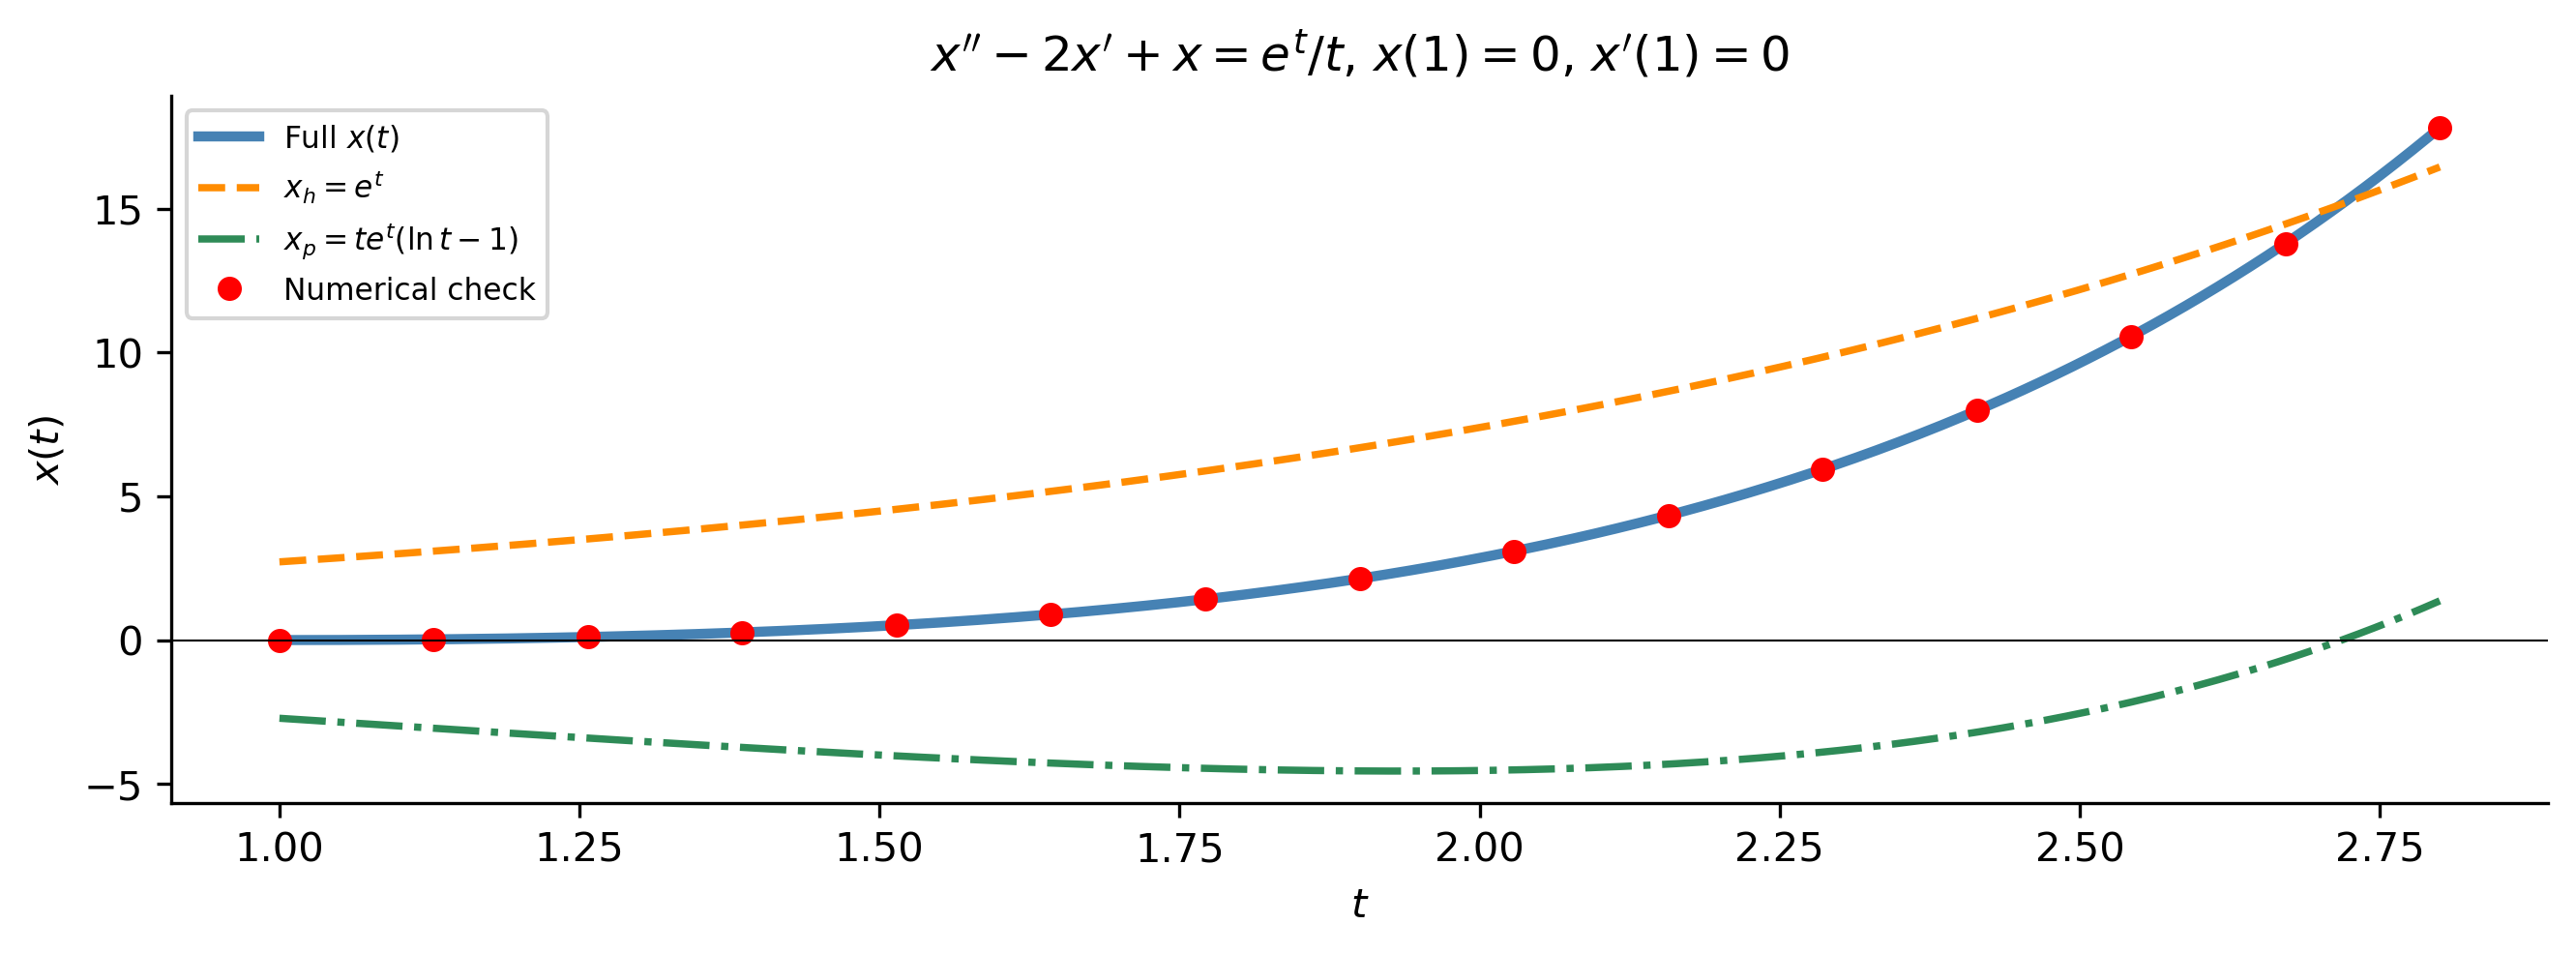
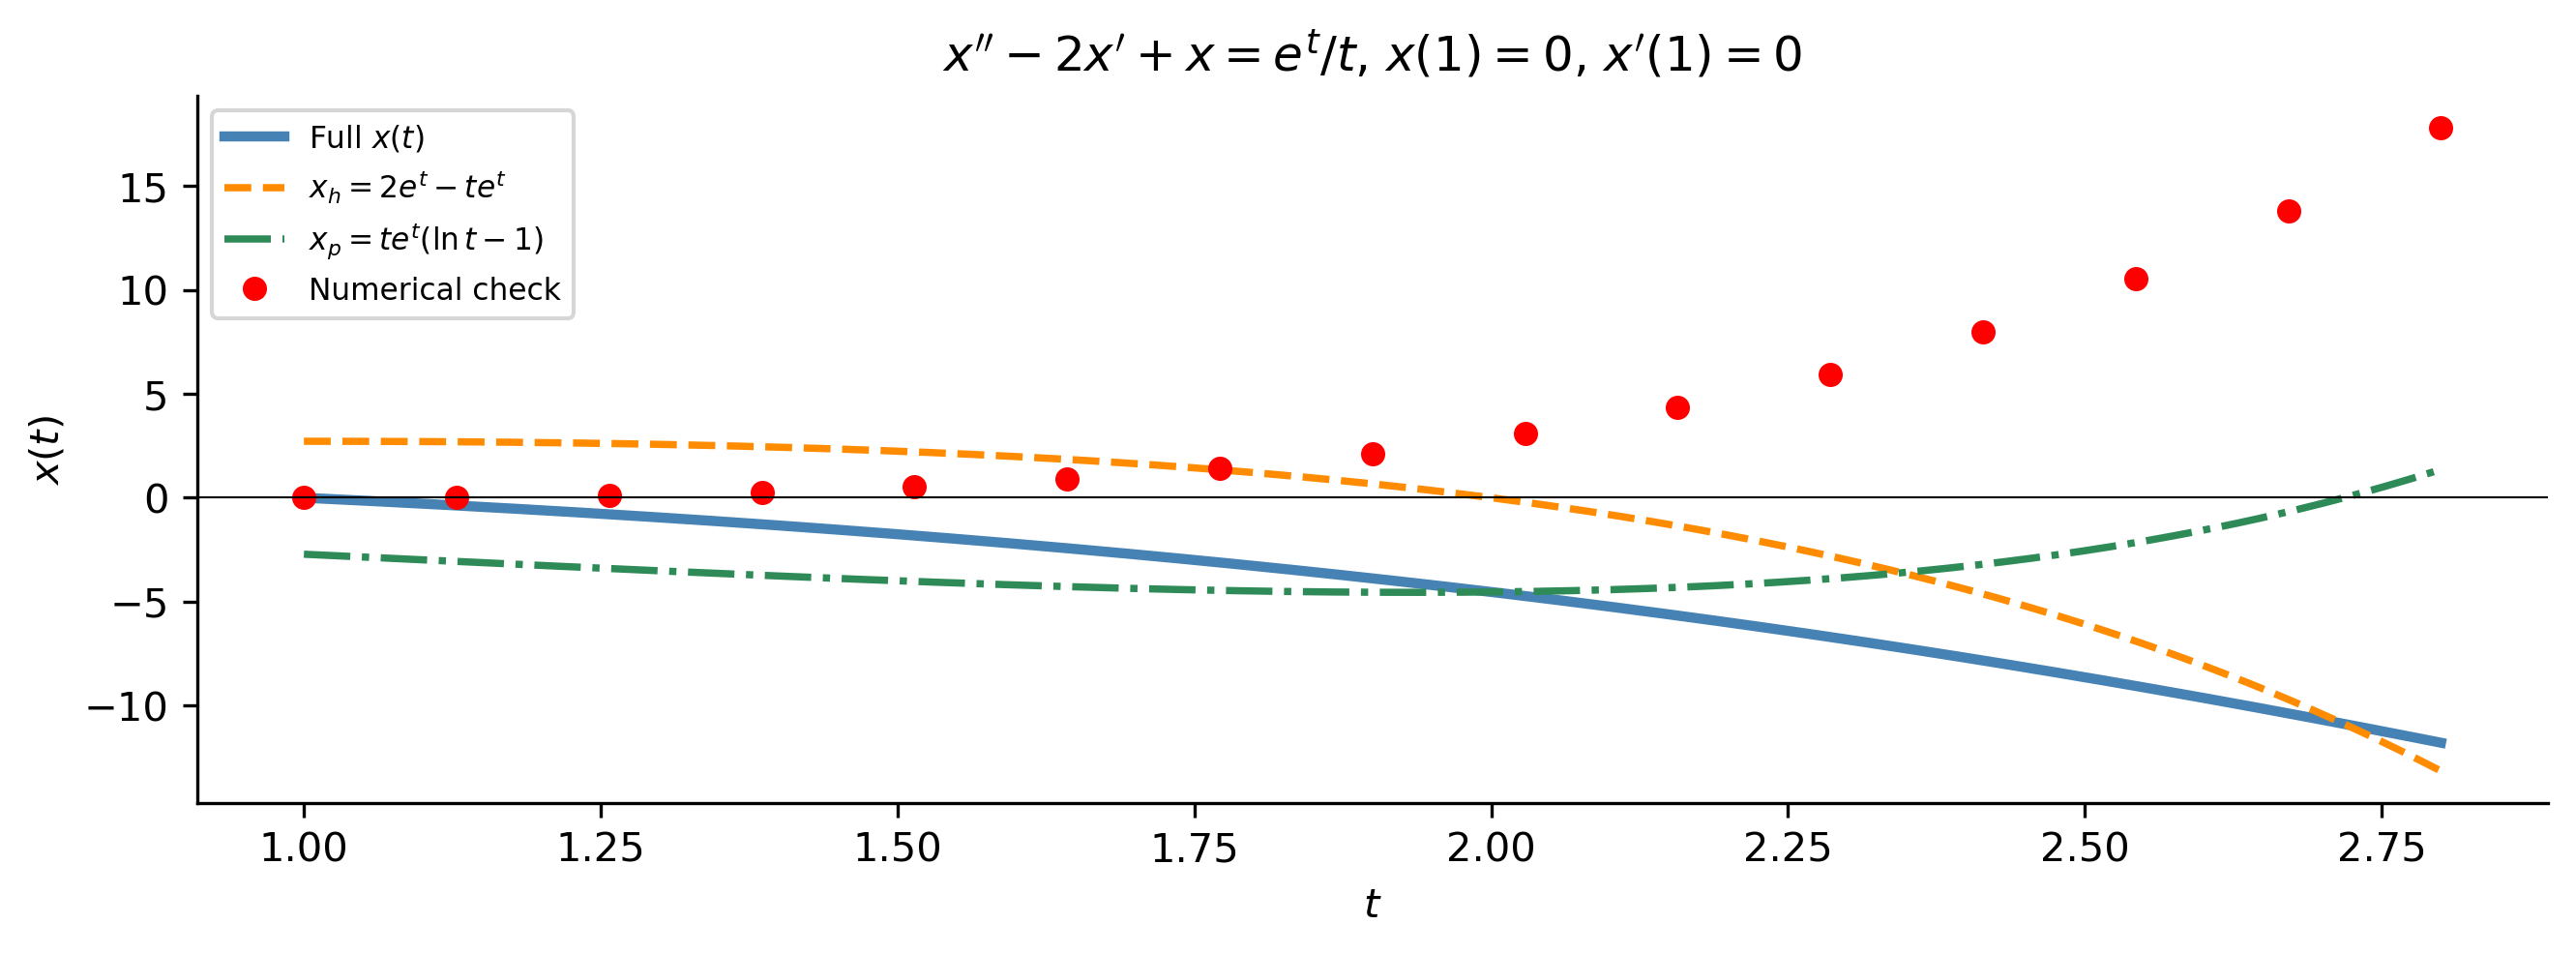
update notes 5

diff --git a/_site/notes_05.html b/_site/notes_05.html
@@ -508,7 +508,7 @@ window.Quarto = {
 </header>
 
 
-<div id="34da382f" class="cell" data-execution_count="1">
+<div id="01619ac7" class="cell" data-execution_count="1">
 <details class="code-fold">
 <summary>Show the code</summary>
 <div class="code-copy-outer-scaffold"><div class="sourceCode cell-code" id="cb1"><pre class="sourceCode python code-with-copy"><code class="sourceCode python"><span id="cb1-1"><a href="#cb1-1" aria-hidden="true" tabindex="-1"></a><span class="im">import</span> numpy <span class="im">as</span> np</span>
@@ -561,6 +561,49 @@ x'' + P(t)\,x' + Q(t)\,x = g(t), \tag{SF}
 <h3 class="anchored" data-anchor-id="when-undetermined-coefficients-fails">When Undetermined Coefficients Fails</h3>
 <p>The method of undetermined coefficients requires the right-hand side <span class="math inline">\(g(t)\)</span> to be a polynomial, exponential, sine, cosine, or product thereof. For variable-coefficient equations the homogeneous solution <span class="math inline">\(x_h\)</span> no longer consists of these simple forms, so there is no longer a predictable guess for <span class="math inline">\(x_p\)</span>. Moreover, even for constant-coefficient equations, forcing functions such as <span class="math inline">\(\sec t\)</span>, <span class="math inline">\(\tan t\)</span>, <span class="math inline">\(\ln t\)</span>, <span class="math inline">\(1/t\)</span>, or <span class="math inline">\(e^t/t\)</span> lie <strong>outside</strong> the undetermined-coefficients table and cannot be handled by guessing.</p>
 <p><strong>Variation of parameters</strong> resolves both issues.</p>
+<div class="callout callout-style-default callout-important callout-titled">
+<div class="callout-header d-flex align-content-center">
+<div class="callout-icon-container">
+<i class="callout-icon"></i>
+</div>
+<div class="callout-title-container flex-fill">
+<span class="screen-reader-only">Important</span>When Undetermined Coefficients Fails
+</div>
+</div>
+<div class="callout-body-container callout-body">
+<table class="caption-top table">
+<colgroup>
+<col style="width: 50%">
+<col style="width: 50%">
+</colgroup>
+<thead>
+<tr class="header">
+<th>Forcing <span class="math inline">\(g(t)\)</span></th>
+<th>Why UC fails</th>
+</tr>
+</thead>
+<tbody>
+<tr class="odd">
+<td><span class="math inline">\(\sec t\)</span>, <span class="math inline">\(\tan t\)</span>, <span class="math inline">\(\csc t\)</span></td>
+<td>Not in the guess table; derivatives generate new function families</td>
+</tr>
+<tr class="even">
+<td><span class="math inline">\(\ln t\)</span>, <span class="math inline">\(\sqrt{t}\)</span>, <span class="math inline">\(1/t\)</span></td>
+<td>Not closed under differentiation — infinitely many new terms appear</td>
+</tr>
+<tr class="odd">
+<td><span class="math inline">\(e^t/t\)</span></td>
+<td>Product of an exponential and <span class="math inline">\(1/t\)</span>; <span class="math inline">\(1/t\)</span> grows under differentiation</td>
+</tr>
+<tr class="even">
+<td>Variable coefficients</td>
+<td>No exponential <span class="math inline">\(x_h\)</span> to compare against; guessing is not predictable</td>
+</tr>
+</tbody>
+</table>
+</div>
+</div>
+<p><strong>Variation of parameters</strong> handles all of these by working directly with the homogeneous solutions, whatever form they take.</p>
 <hr>
 </section>
 </section>
@@ -613,7 +656,7 @@ u_1 = -\int\frac{x_2\,g}{W}\,dt, \qquad u_2 = \int\frac{x_1\,g}{W}\,dt.
 <h3 class="anchored" data-anchor-id="abels-identity">Abel’s Identity</h3>
 <p>The Wronskian of any two solutions of (H) satisfies <strong><a href="https://en.wikipedia.org/wiki/Abel%27s_identity">Abel’s identity</a></strong>: <span class="math display">\[
 W(t) = W(t_0)\,\exp\!\left(-\int_{t_0}^t P(s)\,ds\right).
-\]</span> For constant-coefficient equations (<span class="math inline">\(P\)</span> constant) this gives <span class="math inline">\(W(t) = W(t_0)\,e^{-P(t-t_0)}\)</span>, and in particular <span class="math inline">\(W \neq 0\)</span> everywhere if it is non-zero at one point.</p>
+\]</span> For constant-coefficient equations (<span class="math inline">\(P\)</span> constant) this gives <span class="math inline">\(W(t) = W(t_0)\,e^{-P(t-t_0)}\)</span>, and in particular <span class="math inline">\(W \neq 0\)</span> everywhere if it is non-zero at one point. More generally, since the exponential factor is always nonzero, Abel’s identity shows that <strong><span class="math inline">\(W\)</span> either vanishes identically on <span class="math inline">\(I\)</span> or is nonzero everywhere on <span class="math inline">\(I\)</span></strong> — in particular, if <span class="math inline">\(W(t_0)\neq 0\)</span> for any single <span class="math inline">\(t_0\in I\)</span>, then <span class="math inline">\(W(t)\neq 0\)</span> for all <span class="math inline">\(t\in I\)</span>. This justifies checking the Wronskian at just one convenient point.</p>
 <hr>
 </section>
 </section>
@@ -664,7 +707,7 @@ Note
 </div>
 </div>
 <div class="callout-body-container callout-body">
-<p>The solution exists only on intervals where <span class="math inline">\(\sec t\)</span> is defined: <span class="math inline">\(t\neq \pi/2 + n\pi\)</span>. The particular solution <span class="math inline">\(x_p = \cos t\ln|\cos t| + t\sin t\)</span> grows <strong>linearly</strong> in amplitude because of the <span class="math inline">\(t\sin t\)</span> term — behavior that undetermined coefficients never produces.</p>
+<p>The solution exists on the interval <span class="math inline">\((-\pi/2,\,\pi/2)\)</span> containing <span class="math inline">\(t=0\)</span>, and more generally on any open interval between consecutive singularities of <span class="math inline">\(\sec t\)</span> (i.e., between adjacent odd multiples of <span class="math inline">\(\pi/2\)</span>). The <span class="math inline">\(t\sin t\)</span> term in <span class="math inline">\(x_p\)</span> causes the amplitude to grow <strong>linearly</strong> — behavior analogous to resonance, even though <span class="math inline">\(\omega = 1\)</span> and the forcing <span class="math inline">\(\sec t\)</span> is not a pure sinusoid. Undetermined coefficients never produces this kind of growth.</p>
 </div>
 </div>
 <div id="cell-fig-ex1" class="cell" data-execution_count="2">
@@ -733,10 +776,10 @@ Note
 </div>
 </div>
 <div class="callout-body-container callout-body">
-<p>Note that <span class="math inline">\(te^t(\ln t - 1) = te^t\ln t - te^t\)</span>, and the <span class="math inline">\(-te^t\)</span> part could be absorbed into the <span class="math inline">\(C_2 te^t\)</span> term by redefining <span class="math inline">\(C_2\)</span>. In practice we keep the particular solution as found and let the constants adjust when ICs are applied.</p>
+<p>Note that <span class="math inline">\(te^t(\ln t - 1) = te^t\ln t - te^t\)</span>, and the <span class="math inline">\(-te^t\)</span> part could be absorbed into the <span class="math inline">\(C_2 te^t\)</span> term by redefining <span class="math inline">\(C_2\)</span>. This is valid because <strong>particular solutions are not unique</strong> — any particular solution differs from any other by a solution of the homogeneous equation, so absorbing constant-multiple terms from <span class="math inline">\(x_p\)</span> into <span class="math inline">\(x_h\)</span> yields the same general solution. In practice we keep the particular solution as found and let the constants adjust when ICs are applied.</p>
 </div>
 </div>
-<div id="18df801d" class="cell" data-execution_count="3">
+<div id="5efde885" class="cell" data-execution_count="3">
 <details class="code-fold">
 <summary>Show the code</summary>
 <div class="code-copy-outer-scaffold"><div class="sourceCode cell-code" id="cb3"><pre class="sourceCode python code-with-copy"><code class="sourceCode python"><span id="cb3-1"><a href="#cb3-1" aria-hidden="true" tabindex="-1"></a><span class="co"># SymPy verification</span></span>
@@ -761,26 +804,27 @@ Note
 <div class="code-copy-outer-scaffold"><div class="sourceCode cell-code" id="cb5"><pre class="sourceCode python code-with-copy"><code class="sourceCode python"><span id="cb5-1"><a href="#cb5-1" aria-hidden="true" tabindex="-1"></a>t_plot2 <span class="op">=</span> np.linspace(<span class="fl">1.0</span>, <span class="fl">2.8</span>, <span class="dv">400</span>)</span>
 <span id="cb5-2"><a href="#cb5-2" aria-hidden="true" tabindex="-1"></a></span>
 <span id="cb5-3"><a href="#cb5-3" aria-hidden="true" tabindex="-1"></a><span class="co"># IVP: x(1)=0, x'(1)=0</span></span>
-<span id="cb5-4"><a href="#cb5-4" aria-hidden="true" tabindex="-1"></a><span class="co"># x = e^t + t*e^t*(ln(t)-1)  [verified: C1=1, C2=0]</span></span>
-<span id="cb5-5"><a href="#cb5-5" aria-hidden="true" tabindex="-1"></a>xp2  <span class="op">=</span> t_plot2 <span class="op">*</span> np.exp(t_plot2) <span class="op">*</span> (np.log(t_plot2) <span class="op">-</span> <span class="dv">1</span>)</span>
-<span id="cb5-6"><a href="#cb5-6" aria-hidden="true" tabindex="-1"></a>xh2  <span class="op">=</span> np.exp(t_plot2)   <span class="co"># C1=1, C2=0</span></span>
-<span id="cb5-7"><a href="#cb5-7" aria-hidden="true" tabindex="-1"></a>x2_full <span class="op">=</span> xh2 <span class="op">+</span> xp2</span>
-<span id="cb5-8"><a href="#cb5-8" aria-hidden="true" tabindex="-1"></a></span>
-<span id="cb5-9"><a href="#cb5-9" aria-hidden="true" tabindex="-1"></a>fig, ax <span class="op">=</span> plt.subplots(figsize<span class="op">=</span>(<span class="dv">8</span>, <span class="fl">4.5</span>))</span>
-<span id="cb5-10"><a href="#cb5-10" aria-hidden="true" tabindex="-1"></a>ax.plot(t_plot2, x2_full, color<span class="op">=</span><span class="st">'steelblue'</span>, lw<span class="op">=</span><span class="fl">2.5</span>, label<span class="op">=</span><span class="st">'Full solution $x(t)$'</span>)</span>
-<span id="cb5-11"><a href="#cb5-11" aria-hidden="true" tabindex="-1"></a>ax.plot(t_plot2, xh2,     color<span class="op">=</span><span class="st">'darkorange'</span>, lw<span class="op">=</span><span class="fl">1.8</span>, ls<span class="op">=</span><span class="st">'--'</span>, label<span class="op">=</span><span class="st">'$x_h = e^t$ (with $C_1=1$, $C_2=0$)'</span>)</span>
-<span id="cb5-12"><a href="#cb5-12" aria-hidden="true" tabindex="-1"></a>ax.plot(t_plot2, xp2,     color<span class="op">=</span><span class="st">'seagreen'</span>,   lw<span class="op">=</span><span class="fl">1.8</span>, ls<span class="op">=</span><span class="st">'-.'</span>, label<span class="op">=</span><span class="st">'$x_p = te^t(</span><span class="ch">\\</span><span class="st">ln t-1)$'</span>)</span>
-<span id="cb5-13"><a href="#cb5-13" aria-hidden="true" tabindex="-1"></a></span>
-<span id="cb5-14"><a href="#cb5-14" aria-hidden="true" tabindex="-1"></a><span class="kw">def</span> ode2(t, y): <span class="cf">return</span> [y[<span class="dv">1</span>], <span class="dv">2</span><span class="op">*</span>y[<span class="dv">1</span>] <span class="op">-</span> y[<span class="dv">0</span>] <span class="op">+</span> np.exp(t)<span class="op">/</span>t]</span>
-<span id="cb5-15"><a href="#cb5-15" aria-hidden="true" tabindex="-1"></a>sol2n <span class="op">=</span> solve_ivp(ode2, (<span class="fl">1.0</span>, <span class="fl">2.8</span>), [<span class="fl">0.0</span>, <span class="fl">0.0</span>], dense_output<span class="op">=</span><span class="va">True</span>, max_step<span class="op">=</span><span class="fl">0.005</span>)</span>
-<span id="cb5-16"><a href="#cb5-16" aria-hidden="true" tabindex="-1"></a>t_dots2 <span class="op">=</span> np.linspace(<span class="fl">1.0</span>, <span class="fl">2.8</span>, <span class="dv">18</span>)</span>
-<span id="cb5-17"><a href="#cb5-17" aria-hidden="true" tabindex="-1"></a>ax.plot(t_dots2, sol2n.sol(t_dots2)[<span class="dv">0</span>], <span class="st">'ro'</span>, markersize<span class="op">=</span><span class="dv">5</span>, label<span class="op">=</span><span class="st">'Numerical check'</span>)</span>
-<span id="cb5-18"><a href="#cb5-18" aria-hidden="true" tabindex="-1"></a></span>
-<span id="cb5-19"><a href="#cb5-19" aria-hidden="true" tabindex="-1"></a>ax.axhline(<span class="dv">0</span>, color<span class="op">=</span><span class="st">'k'</span>, lw<span class="op">=</span><span class="fl">0.5</span>)</span>
-<span id="cb5-20"><a href="#cb5-20" aria-hidden="true" tabindex="-1"></a>ax.set_xlabel(<span class="st">'$t$'</span>)<span class="op">;</span> ax.set_ylabel(<span class="st">'$x(t)$'</span>)</span>
-<span id="cb5-21"><a href="#cb5-21" aria-hidden="true" tabindex="-1"></a>ax.set_title(<span class="vs">r"</span><span class="dv">$</span><span class="vs">x''-2x'</span><span class="op">+</span><span class="vs">x=e</span><span class="dv">^</span><span class="vs">t/t</span><span class="dv">$</span><span class="vs">, </span><span class="dv">$</span><span class="vs">x</span><span class="kw">(</span><span class="vs">1</span><span class="kw">)</span><span class="vs">=0</span><span class="dv">$</span><span class="vs">, </span><span class="dv">$</span><span class="vs">x'</span><span class="kw">(</span><span class="vs">1</span><span class="kw">)</span><span class="vs">=0</span><span class="dv">$</span><span class="vs">"</span>)</span>
-<span id="cb5-22"><a href="#cb5-22" aria-hidden="true" tabindex="-1"></a>ax.legend(fontsize<span class="op">=</span><span class="fl">8.5</span>)</span>
-<span id="cb5-23"><a href="#cb5-23" aria-hidden="true" tabindex="-1"></a>plt.tight_layout()<span class="op">;</span> plt.show()</span></code></pre></div><button title="Copy to Clipboard" class="code-copy-button"><i class="bi"></i></button></div>
+<span id="cb5-4"><a href="#cb5-4" aria-hidden="true" tabindex="-1"></a><span class="co"># Solving: C1 + C2 - 1 = 0 and C1 + 2*C2 + 1 = 0  =&gt;  C1=2, C2=-1</span></span>
+<span id="cb5-5"><a href="#cb5-5" aria-hidden="true" tabindex="-1"></a>C1_2, C2_2 <span class="op">=</span> <span class="fl">2.0</span>, <span class="op">-</span><span class="fl">1.0</span></span>
+<span id="cb5-6"><a href="#cb5-6" aria-hidden="true" tabindex="-1"></a>xp2  <span class="op">=</span> t_plot2 <span class="op">*</span> np.exp(t_plot2) <span class="op">*</span> (np.log(t_plot2) <span class="op">-</span> <span class="dv">1</span>)</span>
+<span id="cb5-7"><a href="#cb5-7" aria-hidden="true" tabindex="-1"></a>xh2  <span class="op">=</span> C1_2<span class="op">*</span>np.exp(t_plot2) <span class="op">+</span> C2_2<span class="op">*</span>t_plot2<span class="op">*</span>np.exp(t_plot2)   <span class="co"># 2e^t - te^t</span></span>
+<span id="cb5-8"><a href="#cb5-8" aria-hidden="true" tabindex="-1"></a>x2_full <span class="op">=</span> xh2 <span class="op">+</span> xp2</span>
+<span id="cb5-9"><a href="#cb5-9" aria-hidden="true" tabindex="-1"></a></span>
+<span id="cb5-10"><a href="#cb5-10" aria-hidden="true" tabindex="-1"></a>fig, ax <span class="op">=</span> plt.subplots(figsize<span class="op">=</span>(<span class="dv">8</span>, <span class="fl">4.5</span>))</span>
+<span id="cb5-11"><a href="#cb5-11" aria-hidden="true" tabindex="-1"></a>ax.plot(t_plot2, x2_full, color<span class="op">=</span><span class="st">'steelblue'</span>, lw<span class="op">=</span><span class="fl">2.5</span>, label<span class="op">=</span><span class="st">'Full solution $x(t)$'</span>)</span>
+<span id="cb5-12"><a href="#cb5-12" aria-hidden="true" tabindex="-1"></a>ax.plot(t_plot2, xh2,     color<span class="op">=</span><span class="st">'darkorange'</span>, lw<span class="op">=</span><span class="fl">1.8</span>, ls<span class="op">=</span><span class="st">'--'</span>, label<span class="op">=</span><span class="st">'$x_h = 2e^t - te^t$ (with $C_1=2$, $C_2=-1$)'</span>)</span>
+<span id="cb5-13"><a href="#cb5-13" aria-hidden="true" tabindex="-1"></a>ax.plot(t_plot2, xp2,     color<span class="op">=</span><span class="st">'seagreen'</span>,   lw<span class="op">=</span><span class="fl">1.8</span>, ls<span class="op">=</span><span class="st">'-.'</span>, label<span class="op">=</span><span class="st">'$x_p = te^t(</span><span class="ch">\\</span><span class="st">ln t-1)$'</span>)</span>
+<span id="cb5-14"><a href="#cb5-14" aria-hidden="true" tabindex="-1"></a></span>
+<span id="cb5-15"><a href="#cb5-15" aria-hidden="true" tabindex="-1"></a><span class="kw">def</span> ode2(t, y): <span class="cf">return</span> [y[<span class="dv">1</span>], <span class="dv">2</span><span class="op">*</span>y[<span class="dv">1</span>] <span class="op">-</span> y[<span class="dv">0</span>] <span class="op">+</span> np.exp(t)<span class="op">/</span>t]</span>
+<span id="cb5-16"><a href="#cb5-16" aria-hidden="true" tabindex="-1"></a>sol2n <span class="op">=</span> solve_ivp(ode2, (<span class="fl">1.0</span>, <span class="fl">2.8</span>), [<span class="fl">0.0</span>, <span class="fl">0.0</span>], dense_output<span class="op">=</span><span class="va">True</span>, max_step<span class="op">=</span><span class="fl">0.005</span>)</span>
+<span id="cb5-17"><a href="#cb5-17" aria-hidden="true" tabindex="-1"></a>t_dots2 <span class="op">=</span> np.linspace(<span class="fl">1.0</span>, <span class="fl">2.8</span>, <span class="dv">18</span>)</span>
+<span id="cb5-18"><a href="#cb5-18" aria-hidden="true" tabindex="-1"></a>ax.plot(t_dots2, sol2n.sol(t_dots2)[<span class="dv">0</span>], <span class="st">'ro'</span>, markersize<span class="op">=</span><span class="dv">5</span>, label<span class="op">=</span><span class="st">'Numerical check'</span>)</span>
+<span id="cb5-19"><a href="#cb5-19" aria-hidden="true" tabindex="-1"></a></span>
+<span id="cb5-20"><a href="#cb5-20" aria-hidden="true" tabindex="-1"></a>ax.axhline(<span class="dv">0</span>, color<span class="op">=</span><span class="st">'k'</span>, lw<span class="op">=</span><span class="fl">0.5</span>)</span>
+<span id="cb5-21"><a href="#cb5-21" aria-hidden="true" tabindex="-1"></a>ax.set_xlabel(<span class="st">'$t$'</span>)<span class="op">;</span> ax.set_ylabel(<span class="st">'$x(t)$'</span>)</span>
+<span id="cb5-22"><a href="#cb5-22" aria-hidden="true" tabindex="-1"></a>ax.set_title(<span class="vs">r"</span><span class="dv">$</span><span class="vs">x''-2x'</span><span class="op">+</span><span class="vs">x=e</span><span class="dv">^</span><span class="vs">t/t</span><span class="dv">$</span><span class="vs">, </span><span class="dv">$</span><span class="vs">x</span><span class="kw">(</span><span class="vs">1</span><span class="kw">)</span><span class="vs">=0</span><span class="dv">$</span><span class="vs">, </span><span class="dv">$</span><span class="vs">x'</span><span class="kw">(</span><span class="vs">1</span><span class="kw">)</span><span class="vs">=0</span><span class="dv">$</span><span class="vs">"</span>)</span>
+<span id="cb5-23"><a href="#cb5-23" aria-hidden="true" tabindex="-1"></a>ax.legend(fontsize<span class="op">=</span><span class="fl">8.5</span>)</span>
+<span id="cb5-24"><a href="#cb5-24" aria-hidden="true" tabindex="-1"></a>plt.tight_layout()<span class="op">;</span> plt.show()</span></code></pre></div><button title="Copy to Clipboard" class="code-copy-button"><i class="bi"></i></button></div>
 </details>
 <div class="cell-output cell-output-display">
 <div id="fig-ex2" class="quarto-float quarto-figure quarto-figure-center anchored">
@@ -789,7 +833,7 @@ Note
 <img src="notes_05_files/figure-html/fig-ex2-output-1.png" width="1181" height="658" class="figure-img">
 </div>
 <figcaption class="quarto-float-caption-bottom quarto-float-caption quarto-float-fig" id="fig-ex2-caption-0ceaefa1-69ba-4598-a22c-09a6ac19f8ca">
-Figure&nbsp;2: Example 2: <span class="math inline">\(x''-2x'+x=e^t/t\)</span> with <span class="math inline">\(x(1)=0\)</span>, <span class="math inline">\(x'(1)=0\)</span>. The particular solution <span class="math inline">\(te^t(\ln t-1)\)</span> (green) grows rapidly for large <span class="math inline">\(t\)</span> since it inherits the <span class="math inline">\(e^t\)</span> factor of the homogeneous solutions. Red dots confirm the analytical formula.
+Figure&nbsp;2: Example 2: <span class="math inline">\(x''-2x'+x=e^t/t\)</span> with <span class="math inline">\(x(1)=0\)</span>, <span class="math inline">\(x'(1)=0\)</span>. The constants <span class="math inline">\(C_1=2\)</span>, <span class="math inline">\(C_2=-1\)</span> are determined by the IVP. The particular solution <span class="math inline">\(te^t(\ln t-1)\)</span> (green) grows rapidly for large <span class="math inline">\(t\)</span> since it inherits the <span class="math inline">\(e^t\)</span> factor of the homogeneous solutions. Red dots confirm the analytical formula via numerical solve.
 </figcaption>
 </figure>
 </div>
@@ -801,13 +845,13 @@ Figure&nbsp;2: Example 2: <span class="math inline">\(x''-2x'+x=e^t/t\)</span> w
 <h3 class="anchored" data-anchor-id="example-3-euler-equation-t2-x---2tx-2x-t3sin-t">Example 3 — Euler Equation: <span class="math inline">\(t^2 x'' - 2tx' + 2x = t^3\sin t\)</span></h3>
 <p>This is a second-order linear ODE with <strong>variable coefficients</strong> — the coefficients <span class="math inline">\(-2t\)</span> and <span class="math inline">\(2\)</span> are functions of <span class="math inline">\(t\)</span>, not constants. The homogeneous part is an <strong><a href="https://en.wikipedia.org/wiki/Cauchy%E2%80%93Euler_equation">Euler–Cauchy equation</a></strong>, whose solutions are powers of <span class="math inline">\(t\)</span>.</p>
 <p><strong>Step 1.</strong> Divide by <span class="math inline">\(t^2\)</span> (standard form, <span class="math inline">\(t \neq 0\)</span>): <span class="math display">\[x'' - \frac{2}{t}\,x' + \frac{2}{t^2}\,x = t\sin t. \qquad g(t) = t\sin t.\]</span></p>
-<p><strong>Step 2.</strong> For the homogeneous Euler equation <span class="math inline">\(t^2 x'' - 2tx' + 2x = 0\)</span>, try <span class="math inline">\(x = t^r\)</span>: <span class="math display">\[r(r-1)t^r - 2rt^r + 2t^r = t^r[r^2 - 3r + 2] = t^r(r-1)(r-2) = 0.\]</span> So <span class="math inline">\(r = 1\)</span> and <span class="math inline">\(r = 2\)</span>, giving: <span class="math display">\[x_1 = t, \qquad x_2 = t^2.\]</span></p>
+<p><strong>Step 2.</strong> For the homogeneous Euler equation <span class="math inline">\(t^2 x'' - 2tx' + 2x = 0\)</span>, try <span class="math inline">\(x = t^r\)</span>. The motivation is that the Euler equation has a <strong>scaling symmetry</strong>: replacing <span class="math inline">\(t\)</span> by <span class="math inline">\(ct\)</span> leaves the equation’s structure unchanged, and <span class="math inline">\(t^r\)</span> is the family of functions preserved under this scaling — just as <span class="math inline">\(e^{\lambda t}\)</span> is preserved under differentiation for constant-coefficient equations. Substituting: <span class="math display">\[r(r-1)t^r - 2rt^r + 2t^r = t^r[r^2 - 3r + 2] = t^r(r-1)(r-2) = 0.\]</span> So <span class="math inline">\(r = 1\)</span> and <span class="math inline">\(r = 2\)</span>, giving: <span class="math display">\[x_1 = t, \qquad x_2 = t^2.\]</span></p>
 <p><strong>Step 3.</strong> Wronskian: <span class="math display">\[W = t\cdot 2t - t^2\cdot 1 = 2t^2 - t^2 = t^2.\]</span></p>
 <p><strong>Step 4.</strong> <span class="math display">\[u_1' = -\frac{t^2\cdot t\sin t}{t^2} = -t\sin t, \qquad u_2' = \frac{t\cdot t\sin t}{t^2} = \sin t.\]</span></p>
 <p><strong>Step 5.</strong> Using integration by parts for <span class="math inline">\(u_1\)</span>: <span class="math display">\[u_1 = -\int t\sin t\,dt = t\cos t - \sin t, \qquad u_2 = \int\sin t\,dt = -\cos t.\]</span></p>
 <p><strong>Step 6.</strong> <span class="math display">\[x_p = t(t\cos t - \sin t) + t^2(-\cos t) = t^2\cos t - t\sin t - t^2\cos t = -t\sin t.\]</span></p>
 <p><strong>General solution:</strong> <span class="math display">\[\boxed{x(t) = C_1 t + C_2 t^2 - t\sin t.}\]</span></p>
-<div id="[phone redacted]" class="cell" data-execution_count="5">
+<div id="b1eade8e" class="cell" data-execution_count="5">
 <details class="code-fold">
 <summary>Show the code</summary>
 <div class="code-copy-outer-scaffold"><div class="sourceCode cell-code" id="cb6"><pre class="sourceCode python code-with-copy"><code class="sourceCode python"><span id="cb6-1"><a href="#cb6-1" aria-hidden="true" tabindex="-1"></a><span class="co"># SymPy verification</span></span>
@@ -887,6 +931,19 @@ Figure&nbsp;3: Example 3: Euler equation <span class="math inline">\(t^2 x''-2tx
 <p><strong>Step 4.</strong> <span class="math display">\[u_1 = -t, \qquad u_2 = \int\cot t\,dt = \ln|\sin t|.\]</span></p>
 <p><strong>Step 5.</strong> <span class="math display">\[x_p = \cos t\cdot(-t) + \sin t\cdot\ln|\sin t| = -t\cos t + \sin t\ln|\sin t|.\]</span></p>
 <p><strong>General solution:</strong> <span class="math display">\[\boxed{x(t) = C_1\cos t + C_2\sin t - t\cos t + \sin t\ln|\sin t|.}\]</span></p>
+<div class="callout callout-style-default callout-tip callout-titled">
+<div class="callout-header d-flex align-content-center">
+<div class="callout-icon-container">
+<i class="callout-icon"></i>
+</div>
+<div class="callout-title-container flex-fill">
+Tip
+</div>
+</div>
+<div class="callout-body-container callout-body">
+<p>Compare Examples 1 and 4: both use <span class="math inline">\(x_1 = \cos t\)</span>, <span class="math inline">\(x_2 = \sin t\)</span>, and <span class="math inline">\(W = 1\)</span>. The only difference is the forcing — <span class="math inline">\(\sec t\)</span> versus <span class="math inline">\(\csc t\)</span> — yet the particular solutions are qualitatively different (<span class="math inline">\(\cos t\ln|\cos t| + t\sin t\)</span> vs.&nbsp;<span class="math inline">\(-t\cos t + \sin t\ln|\sin t|\)</span>). The method of variation of parameters is identical in both cases; only the integrals change. This illustrates how the method adapts automatically to the forcing, without any guessing or modification rule.</p>
+</div>
+</div>
 <div id="cell-fig-ex4" class="cell" data-execution_count="7">
 <details class="code-fold">
 <summary>Show the code</summary>
@@ -944,7 +1001,7 @@ Figure&nbsp;4: Example 4: <span class="math inline">\(x''+x=\csc t\)</span>, <sp
 </section>
 <section id="sympy-solving-all-four-examples-symbolically" class="level3">
 <h3 class="anchored" data-anchor-id="sympy-solving-all-four-examples-symbolically">SymPy: Solving All Four Examples Symbolically</h3>
-<div id="85a54829" class="cell" data-execution_count="8">
+<div id="b4c99c85" class="cell" data-execution_count="8">
 <details class="code-fold">
 <summary>Show the code</summary>
 <div class="code-copy-outer-scaffold"><div class="sourceCode cell-code" id="cb10"><pre class="sourceCode python code-with-copy"><code class="sourceCode python"><span id="cb10-1"><a href="#cb10-1" aria-hidden="true" tabindex="-1"></a>t_sym <span class="op">=</span> sym.Symbol(<span class="st">'t'</span>, positive<span class="op">=</span><span class="va">True</span>)</span>
@@ -1106,6 +1163,19 @@ Tip
 <li><p>For <strong>Euler equations</strong>, the homogeneous solutions are powers <span class="math inline">\(t^r\)</span> rather than exponentials; variation of parameters proceeds identically once <span class="math inline">\(x_1\)</span>, <span class="math inline">\(x_2\)</span> are found.</p></li>
 </ul>
 <p>These notes are also viewable as a slide deck presentation: <a href="https://math341diffeq.netlify.app/notes_05_slides.html" target="_blank">Open slides in full screen</a></p>
+<div class="callout callout-style-default callout-tip callout-titled">
+<div class="callout-header d-flex align-content-center">
+<div class="callout-icon-container">
+<i class="callout-icon"></i>
+</div>
+<div class="callout-title-container flex-fill">
+<span class="screen-reader-only">Tip</span>Looking Ahead
+</div>
+</div>
+<div class="callout-body-container callout-body">
+<p>With the method of variation of parameters, we now have a complete toolkit for second-order linear ODEs — constant or variable coefficients, any continuous forcing. The next major step is to reframe everything in <strong>matrix language</strong>: a second-order ODE <span class="math inline">\(x'' + px' + qx = 0\)</span> is equivalent to the first-order system <span class="math inline">\(\mathbf{y}' = A\mathbf{y}\)</span>, and the homogeneous solutions <span class="math inline">\(x_1\)</span>, <span class="math inline">\(x_2\)</span> become columns of the <strong>fundamental matrix</strong>. The Wronskian becomes the determinant of that matrix, Abel’s identity becomes Liouville’s theorem, and variation of parameters extends naturally to systems of any size. This unification is the subject of Chapter 3 of <span class="citation" data-cites="logan2015first">Logan (<a href="#ref-logan2015first" role="doc-biblioref">2015</a>)</span>.</p>
+</div>
+</div>
 <div class="callout callout-style-default callout-note callout-titled">
 <div class="callout-header d-flex align-content-center">
 <div class="callout-icon-container">
@@ -1116,7 +1186,7 @@ Note
 </div>
 </div>
 <div class="callout-body-container callout-body">
-<p><strong>Next:</strong> Introduction to Laplace Transform — Logan §3.1.</p>
+<p><strong>Next:</strong> Introduction to Laplace transforms — Logan §3.1.</p>
 </div>
 </div>
 <hr>
@@ -1149,7 +1219,7 @@ Logan, J David. 2015. <em>A First Course in Differential Equations, Third Editio
 </div>
 </div>
 <div class="callout callout-style-default callout-tip callout-titled">
-<div class="callout-header d-flex align-content-center collapsed" data-bs-toggle="collapse" data-bs-target=".callout-8-contents" aria-controls="callout-8" aria-expanded="false" aria-label="Toggle callout">
+<div class="callout-header d-flex align-content-center collapsed" data-bs-toggle="collapse" data-bs-target=".callout-11-contents" aria-controls="callout-11" aria-expanded="false" aria-label="Toggle callout">
 <div class="callout-icon-container">
 <i class="callout-icon"></i>
 </div>
@@ -1158,9 +1228,9 @@ Logan, J David. 2015. <em>A First Course in Differential Equations, Third Editio
 </div>
 <div class="callout-btn-toggle d-inline-block border-0 py-1 ps-1 pe-0 float-end"><i class="callout-toggle"></i></div>
 </div>
-<div id="callout-8" class="callout-8-contents callout-collapse collapse">
+<div id="callout-11" class="callout-11-contents callout-collapse collapse">
 <div class="callout-body-container callout-body">
-<div id="7fa02187" class="cell" data-execution_count="9">
+<div id="7dc3e46e" class="cell" data-execution_count="9">
 <details class="code-fold">
 <summary>Show the code</summary>
 <div class="code-copy-outer-scaffold"><div class="sourceCode cell-code" id="cb16"><pre class="sourceCode python code-with-copy"><code class="sourceCode python"><span id="cb16-1"><a href="#cb16-1" aria-hidden="true" tabindex="-1"></a><span class="im">import</span> sys</span>